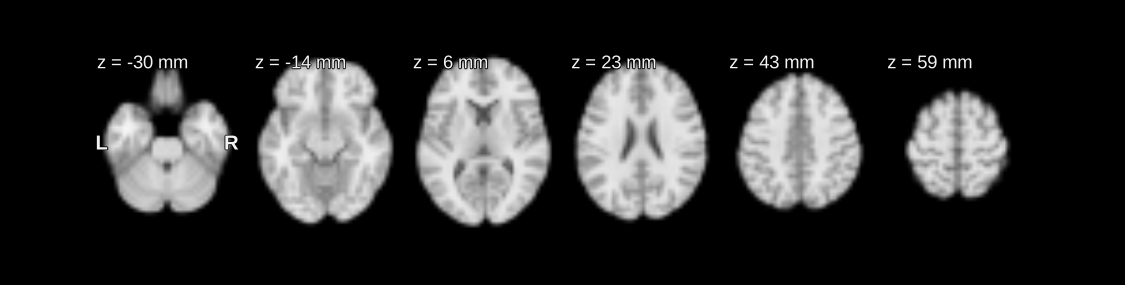
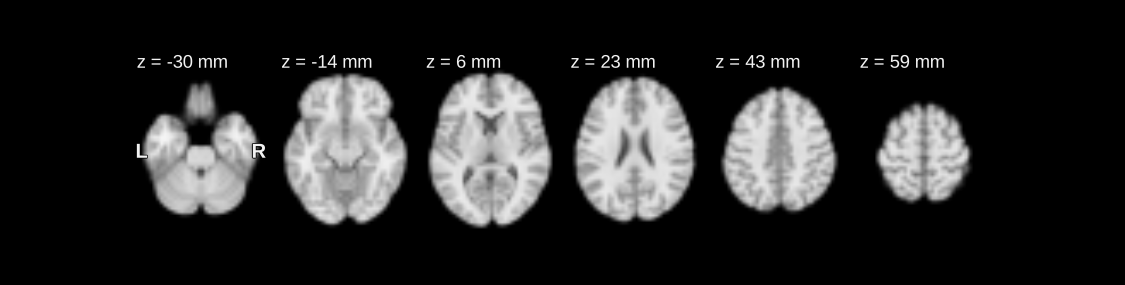
Keep slice labels clear of the anatomy in small tiles
The slice label sits in the top-left corner of each tile. A tile is
cropped to the head with a margin proportional to the head, but the
label has a fixed physical size, so on small tiles -- many slices in a
row, a narrow figure, or an image whose head fills the field of view so
the margin is clipped -- the label is taller than the margin. In
plot_montage() it was struck through by tissue; in plot_overlay() its
box covered the top of the brain. Both showed in the README figures.

The layout already knows the canvas it is fitting, so it can now work
out the label's height in data units and raise the top of the tiles by
just enough for the label to clear the foreground:

* foreground_crop_window() records the top edge of the foreground.
* label_headroom() solves for the extra height, in both the
  width-limited and height-limited cases (raising the tile changes its
  aspect, and so its size). It returns 0 when the margin already fits.
* neuro_assemble() and plot_montage()'s build step apply it; the
  overlay path lifts the prebuilt tiles with raise_tile_top(), leaving
  the originals for re-fitting to another canvas.

plot_ortho() is unchanged: its three panels have per-panel windows and
fixed relative widths. README figures regenerated.

Claude-Session: https://claude.ai/code/session_019ggP1MRAxqGdmf51Yhvjw3

Changed region(s): [[0.0622, 0.1965, 0.9022, 0.814], [0.7778, 0.1965, 0.8711, 0.2526]]

diff --git a/NEWS.md b/NEWS.md
@@ -1,5 +1,13 @@
 # neuroim2 0.19.1.9000
 
+* Slice labels in `plot_overlay()` and `plot_montage()` no longer sit on the
+  anatomy in small tiles. The label has a fixed physical size while the crop
+  margin around the head is proportional to the head, so with many slices in
+  a row, a narrow figure, or an image whose head fills the field of view, the
+  label (and in `plot_overlay()` its box) covered the top of the brain. The
+  top of the tiles is now raised by just enough for the label to clear the
+  foreground at the size the figure is drawn; figures whose margin already
+  fits the label are unchanged.
 * New `as_neuro()` and `as_nifti()` move images between neuroim2 and the
   rest of the R neuroimaging ecosystem without a round trip through a file.
   `as_neuro()` takes an RNifti `niftiImage` (or `internalImage`) or an
